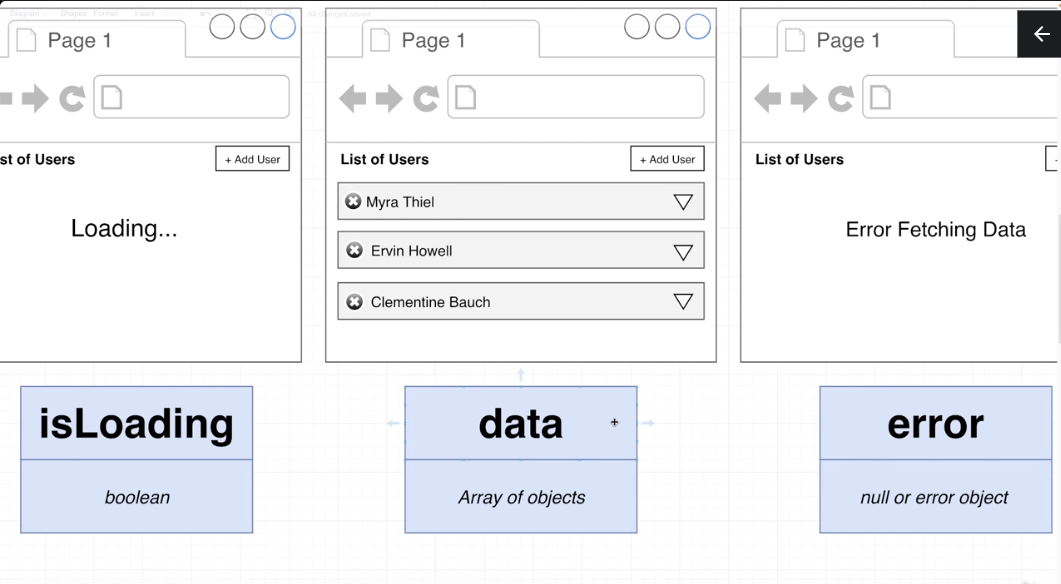
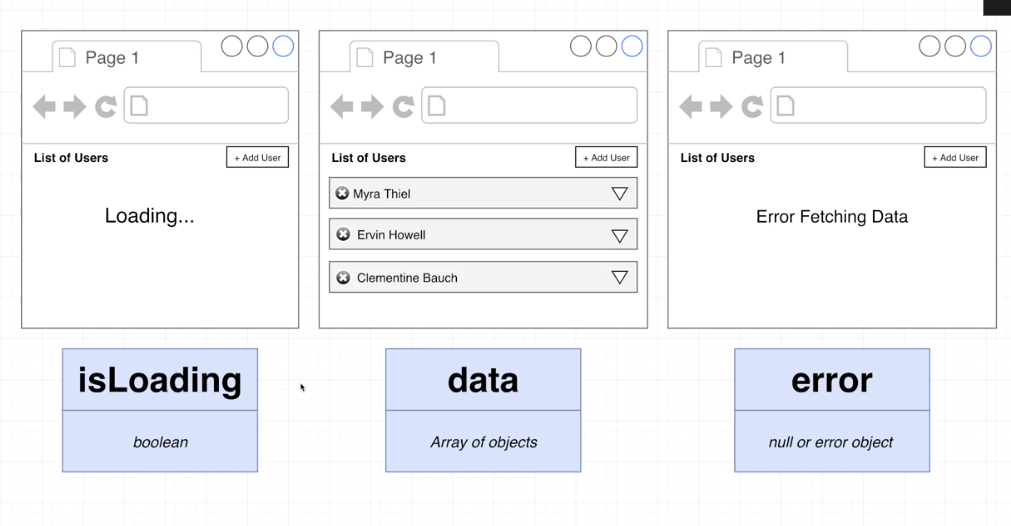
Completed video 358

Changed region(s): [[0.0, 0.0, 1.0, 0.9125], [0.0613, 0.365, 0.184, 0.4259]]

diff --git a/src/store/slices/usersSlice.js b/src/store/slices/usersSlice.js
@@ -1,4 +1,5 @@
 import { createSlice } from "@reduxjs/toolkit";
+import { fetchUsers } from "../thunks/fetchUsers";
 
 const usersSlice = createSlice({
     name: 'users',
@@ -7,7 +8,27 @@ const usersSlice = createSlice({
         isLoading: false,
         error: null
     },
-    reducers: {}
+    extraReducers(builder) {
+        builder.addCase(fetchUsers.pending, (state, action) => {
+           // Update our state object however appropriat
+           // to show the user what we are loading data
+           state.isLoading = true;
+        });
+        builder.addCase(fetchUsers.fulfilled, (state, action) => {
+            // Update our state object however appropriat
+            // to show the user that request for fulfilled
+            state.isLoading = false;
+            state.data = action.payload;
+
+        });
+        builder.addCase(fetchUsers.rejected, (state, action) => {
+            // Update our state object however appropriat
+            // to show the user that request was failed
+            state.isLoading = false;
+            state.error = action.error;
+        });
+
+    }
 });
 
 export const usersReducer = usersSlice.reducer;

diff --git a/src/components/UsersList.js b/src/components/UsersList.js
@@ -1,5 +1,30 @@
+import { useEffect } from "react";
+import { useDispatch, useSelector } from "react-redux";
+import { fetchUsers } from "../store";
+
 function UsersList() {
-    return 'Users List';
+    const dispatch = useDispatch();
+
+    const {isLoading, data, error} = useSelector((state) => {
+        return state.users; // {data:[], isLoading: false, error: null}
+    })
+    useEffect(() => {
+        dispatch(fetchUsers());
+    }, [dispatch]);
+
+    if (isLoading) {
+        return <div>Loding ...</div>;
+    }
+
+    if (error) {
+        return <div>Error fetching data ...</div>
+    }
+
+    return (
+        <div>
+            {data.length}
+        </div>
+    );
 }
 
 export default UsersList;

diff --git a/src/store/thunks/fetchUsers.js b/src/store/thunks/fetchUsers.js
@@ -3,7 +3,22 @@ import axios from "axios";
 
 const fetchUsers = createAsyncThunk('users/fetch', async () => {
     const response = await axios.get('http://localhost:3005/users');
+    
+    // DEV ONLY!!!
+    await pause(1000);
     return response.data;
 });
+
+// DEV ONLY !!!
+const pause = (duration) => {
+    return new Promise((resolve) => {
+        setTimeout(resolve, duration);
+    })
+}
+
+// following objectkey are automatically created by thunk for us
+// fetchUsers.pending = 'users/fetch/pending'
+// fetchUsers.fulfilled = 'users/fetch/fulfilled'
+// fetchUsers.rejected = 'users/fetch/rejected' 
 
 export { fetchUsers };

diff --git a/src/store/index.js b/src/store/index.js
@@ -6,3 +6,5 @@ export const store = configureStore({
         users: usersReducer
     }
 });
+
+export * from './thunks/fetchUsers';
